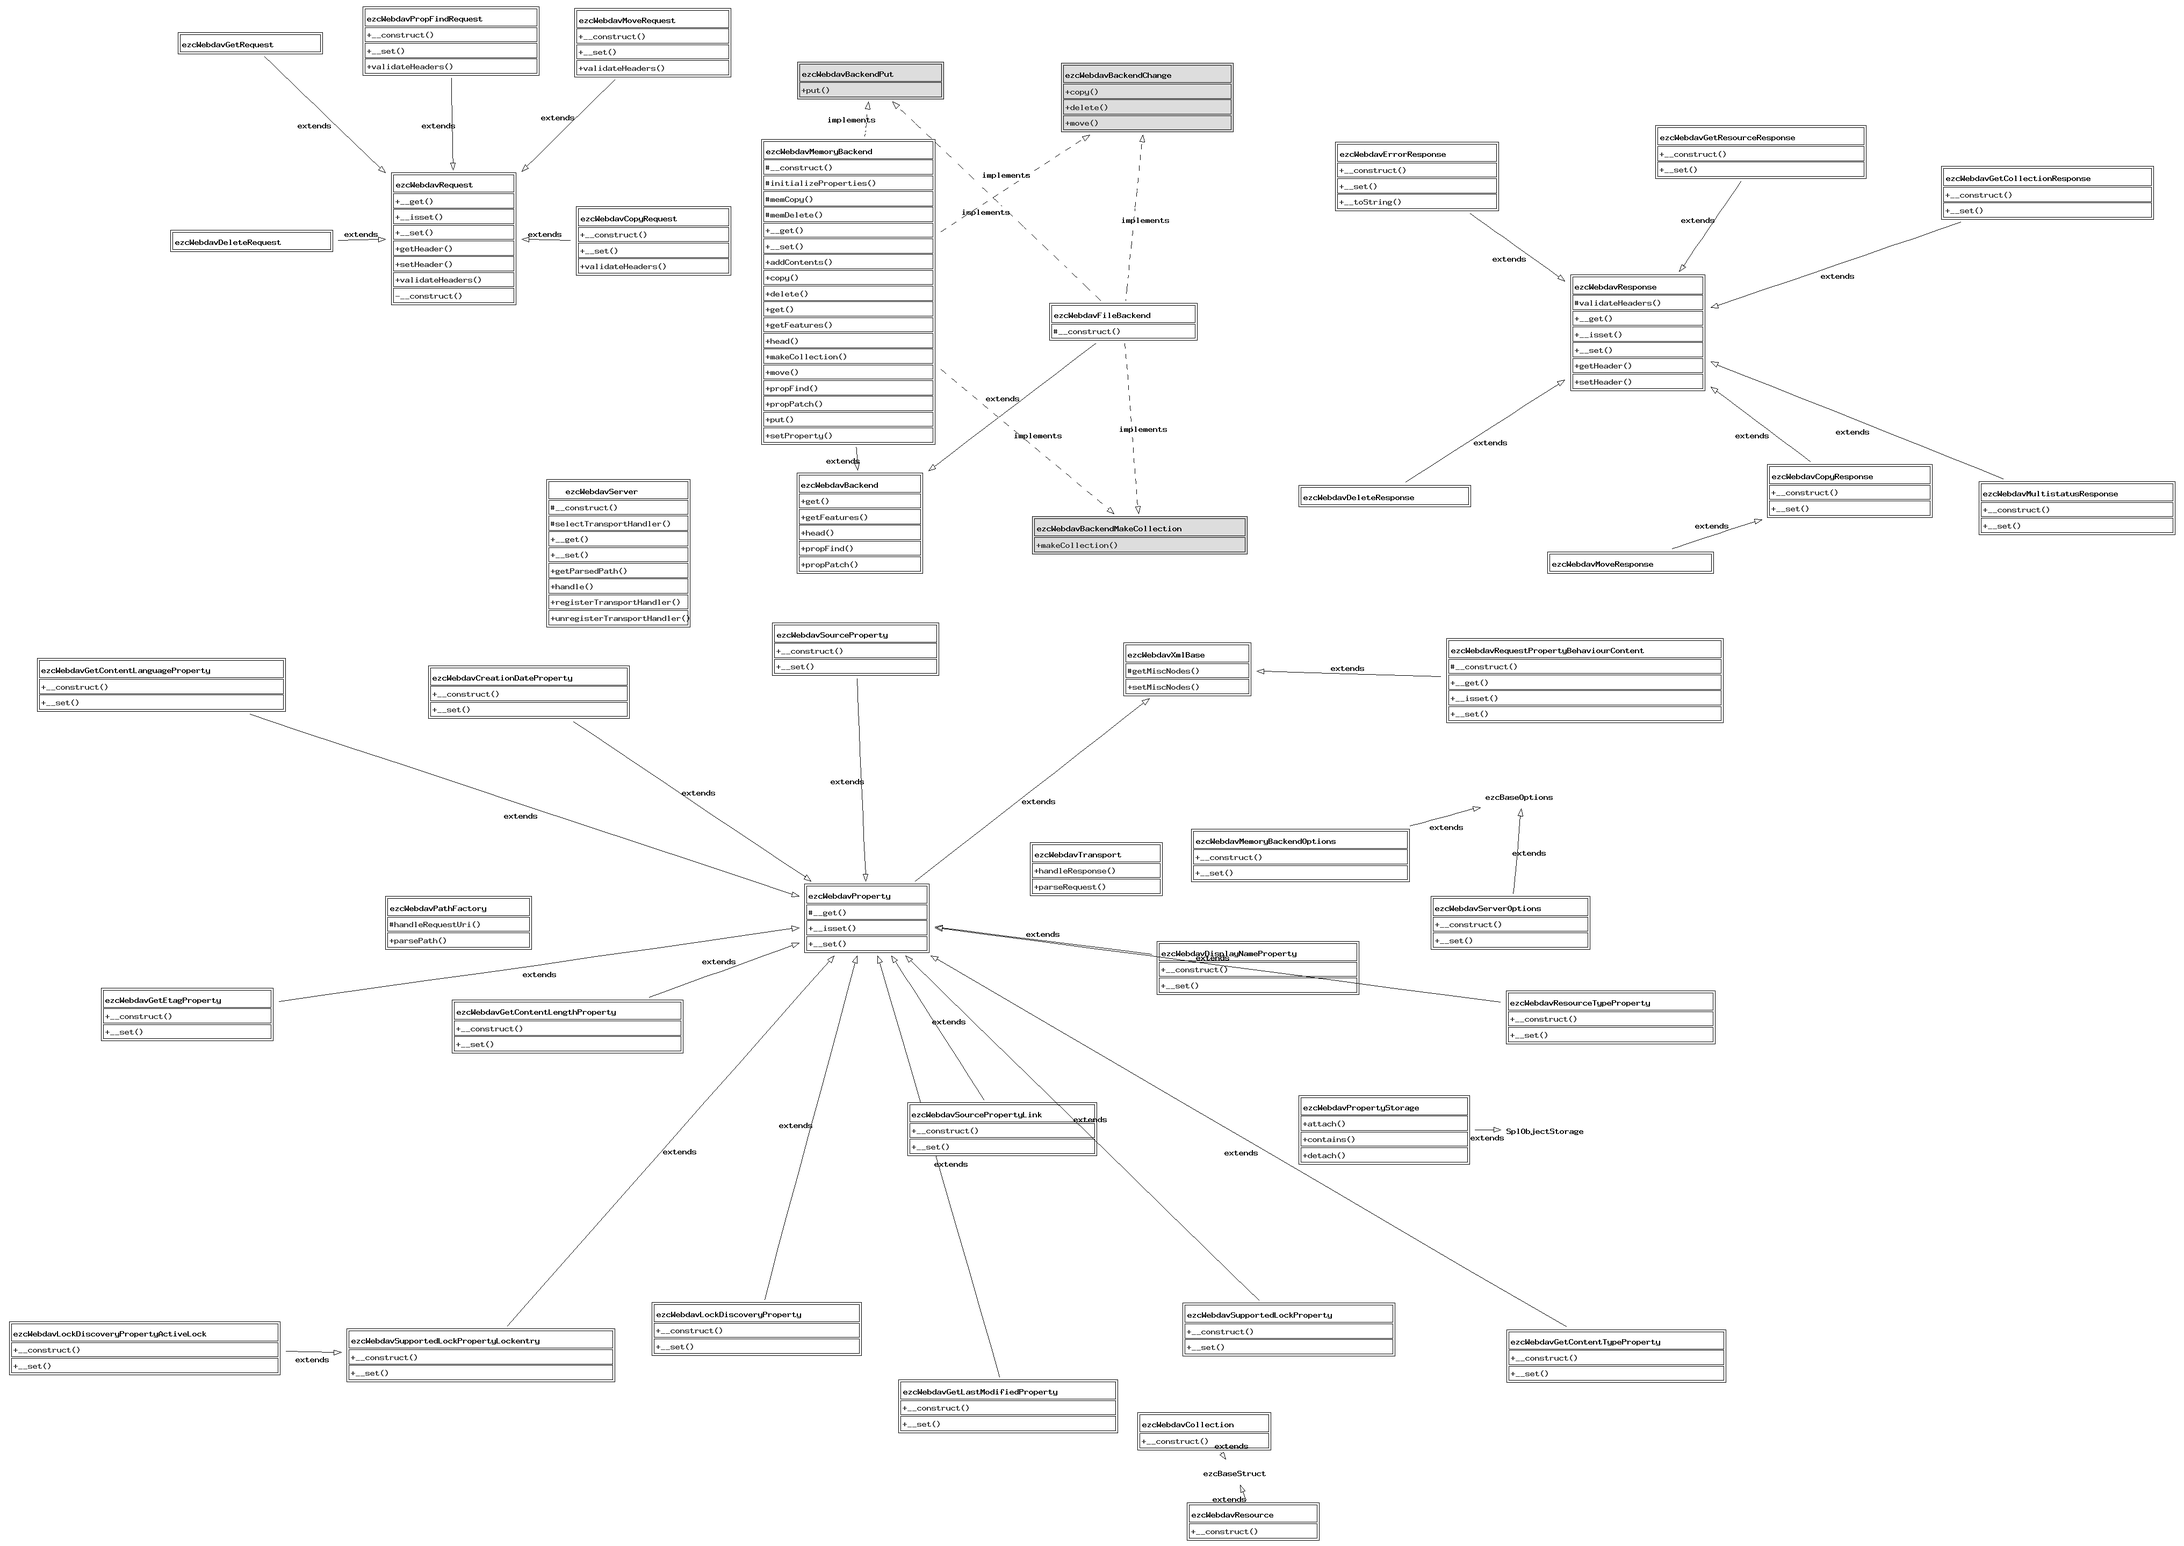
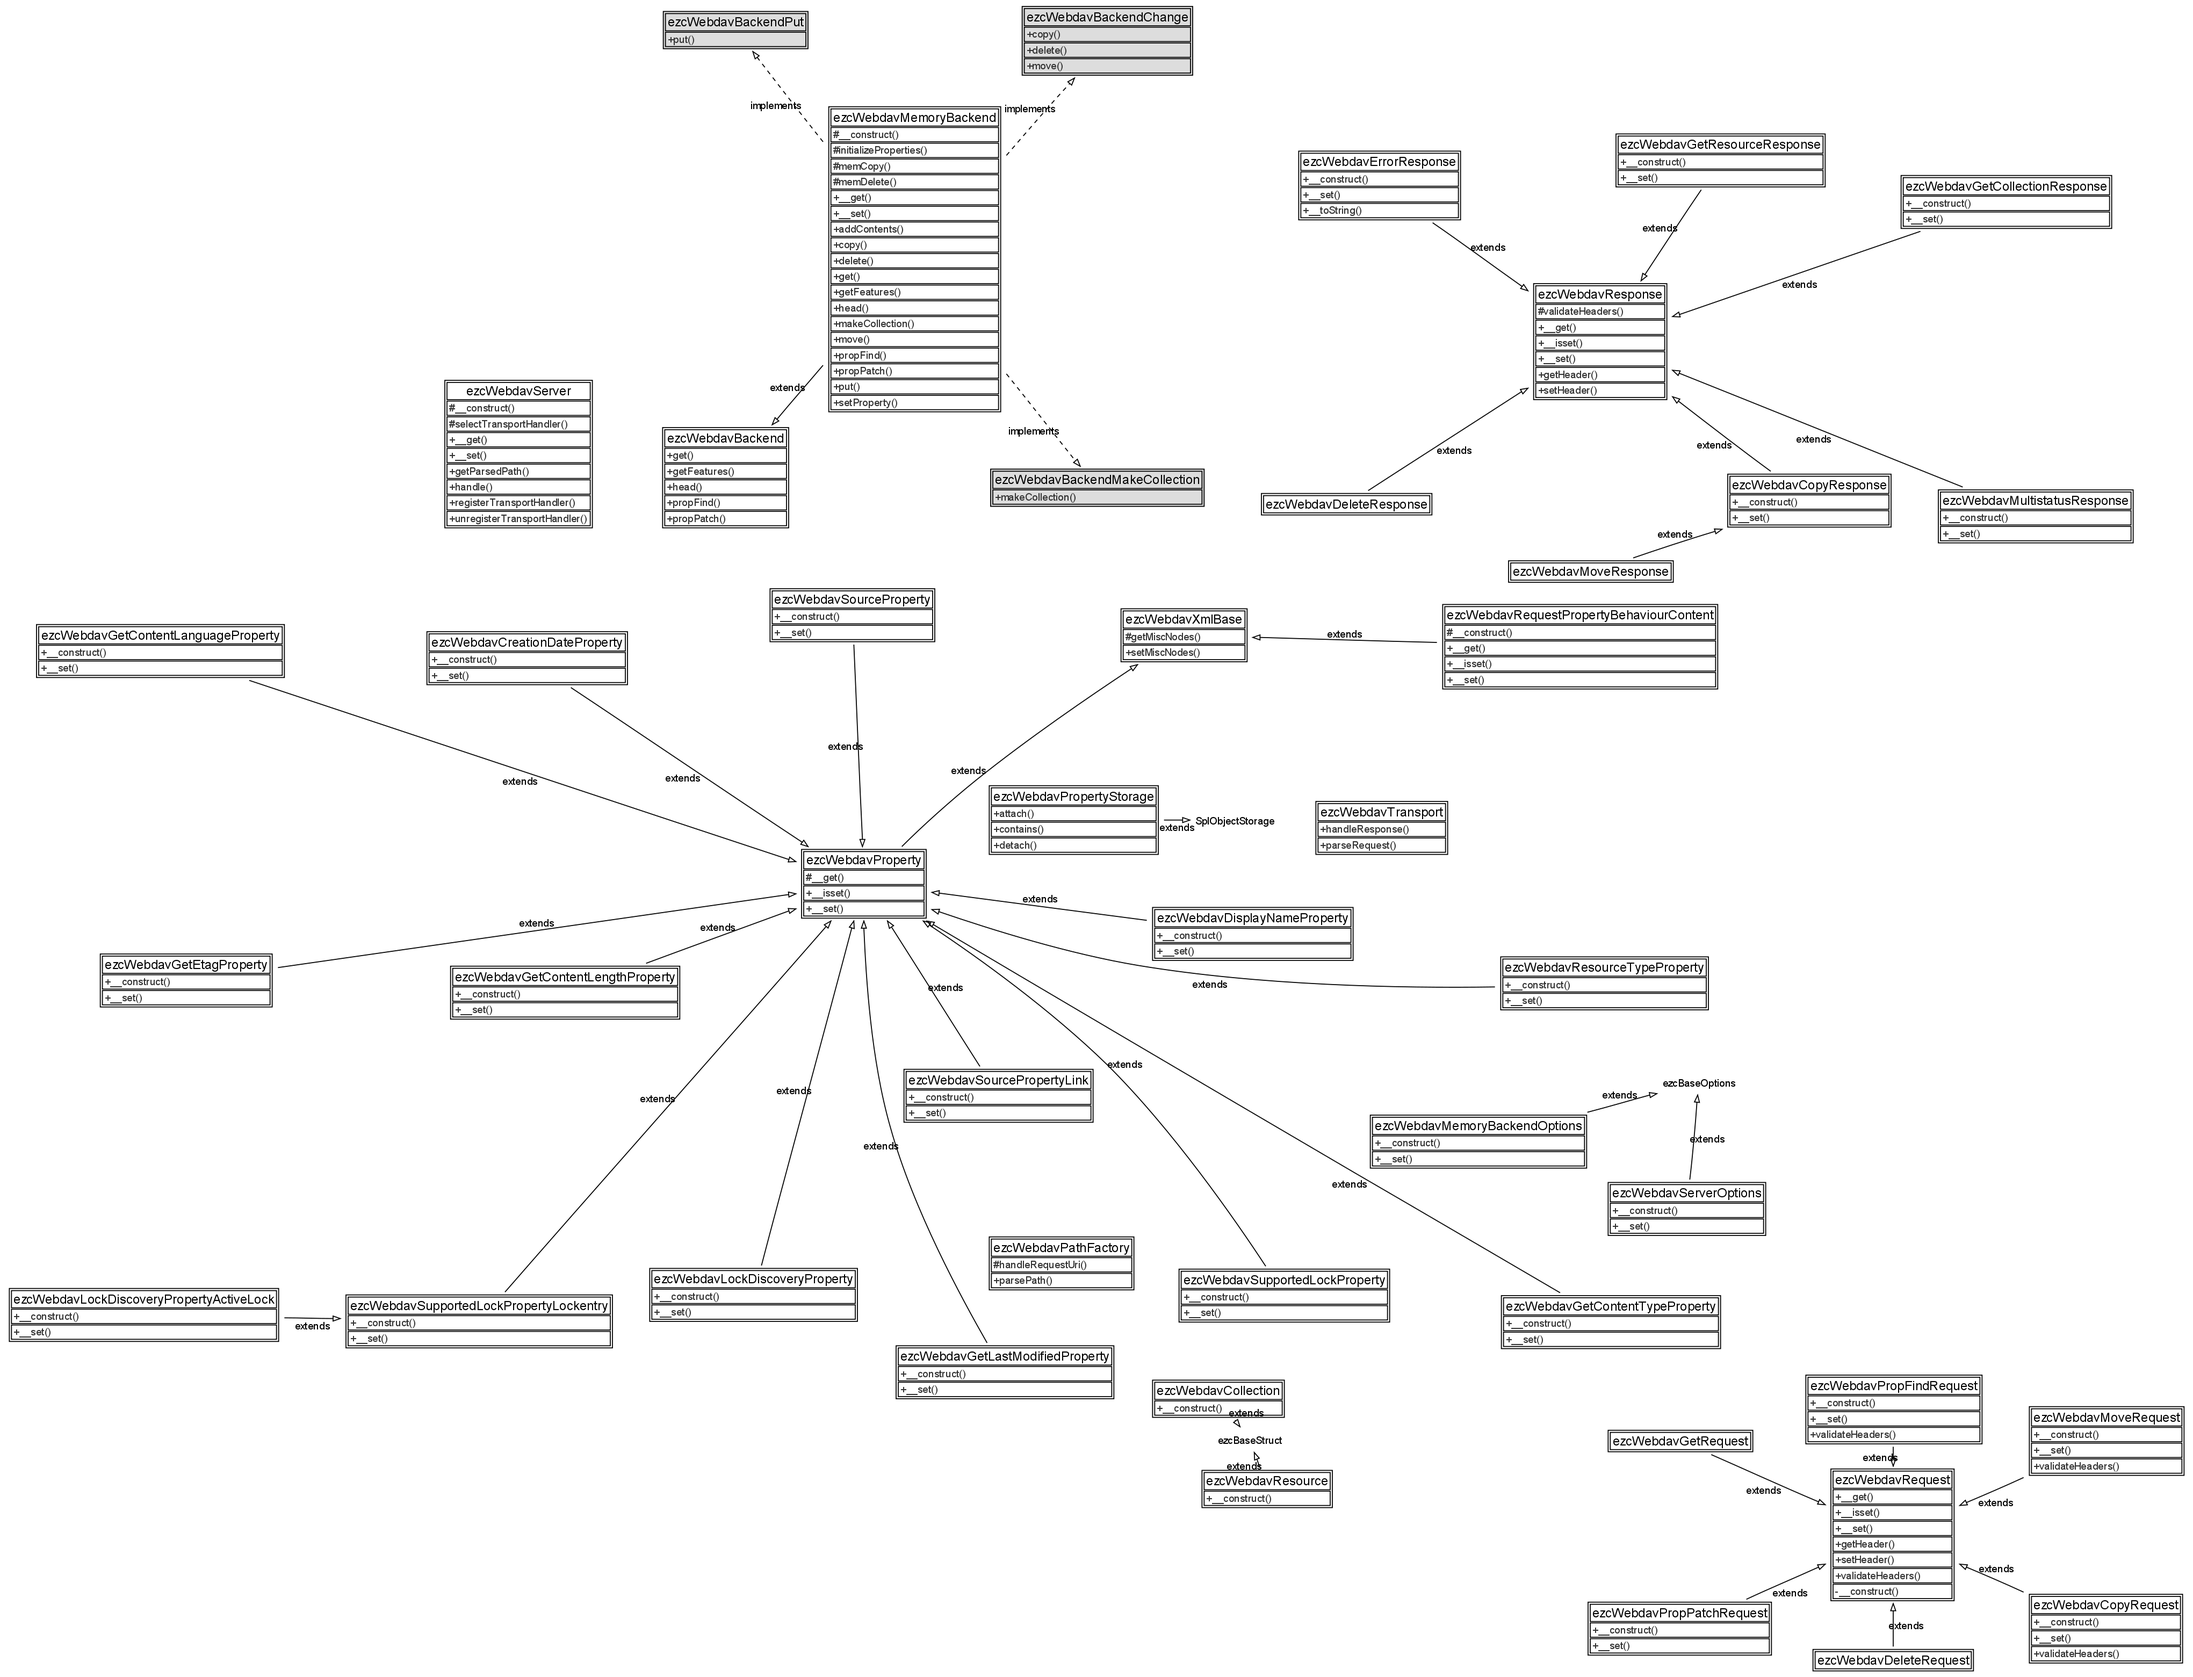
- Added PROPPATCH request. - Migrated PROPFIND request to make use of ezcWebdavPropertyStorage.
git-svn-id: https://svn.apache.org/repos/asf/incubator/zetacomponents/trunk@973424 13f79535-47bb-0310-9956-ffa450edef68

diff --git a/Webdav/src/request/proppatch.php b/Webdav/src/request/proppatch.php
@@ -1,0 +1,83 @@
+<?php
+/**
+ * File containing the ezcWebdavPropPatchRequest class.
+ *
+ * @package Webdav
+ * @version //autogentag//
+ * @copyright PropPatchright (C) 2005-2007 eZ systems as. All rights reserved.
+ * @license http://ez.no/licenses/new_bsd New BSD License
+ */
+/**
+ * Request class generated by a PROPPATCH request.
+ * This request represents the WebDAV PROPPATCH action.
+ *
+ * An object of this class may contain any number of ezcWebdavProperty objects
+ * in both properties: {@link $set} and {$remove}. Both properties represent
+ * the corresponding XML elements used inside the <propertyupdate /> XML
+ * element of the request body.
+ * 
+ * @package Webdav
+ * @version //autogen//
+ * @copyright PropPatchright (C) 2005-2007 eZ systems as. All rights reserved.
+ * @author  
+ * @license http://ez.no/licenses/new_bsd New BSD License
+ *
+ * @property ezcWebdavPropertyStorage $set
+ *           Represents the properties contained in <set /> XML elements.
+ * @property ezcWebdavPropertyStorage $remove
+ *           Represents the properties contained in <remove /> XML elements.
+ */
+class ezcWebdavPropPatchRequest extends ezcWebdavRequest
+{
+    /**
+     * Creates a new PROPPATCH request object.
+     * Sets the defaults for the optional headers for this request. Expects the
+     * URI of the request to be encapsulated.
+     * 
+     * @param string $requestUri
+     * @return void
+     */
+    public function __construct( $requestUri )
+    {
+        // Set from constructor values
+        parent::__construct( $requestUri );
+
+        // Create properties
+        $this->properties['set']    = new ezcWebdavPropertyStorage();
+        $this->properties['remove'] = new ezcWebdavPropertyStorage();
+    }
+
+    /**
+     * Sets a property.
+     * This method is called when an property is to be set.
+     * 
+     * @param string $propertyName The name of the property to set.
+     * @param mixed $propertyValue The property value.
+     * @ignore
+     *
+     * @throws ezcBasePropertyNotFoundException
+     *         if the given property does not exist.
+     * @throws ezcBaseValueException
+     *         if the value to be assigned to a property is invalid.
+     * @throws ezcBasePropertyPermissionException
+     *         if the property to be set is a read-only property.
+     */
+    public function __set( $propertyName, $propertyValue )
+    {
+        switch ( $propertyName )
+        {
+            case 'set':
+            case 'remove':
+                if ( ( $propertyValue instanceof ezcWebdavPropertyStorage ) === false )
+                {
+                    throw new ezcBaseValueException( $propertyName, $propertyValue, 'ezcWebdavPropertyStorage' );
+                }
+                break;
+            default:
+                parent::__set( $propertyName, $propertyValue );
+        }
+        $this->properties[$propertyName] = $propertyValue;
+    }
+}
+
+?>

diff --git a/Webdav/tests/request_proppatch_test.php b/Webdav/tests/request_proppatch_test.php
@@ -1,0 +1,70 @@
+<?php
+/**
+ * File containing the ezcWebdavPropPatchRequestTest class.
+ *
+ * @package Webdav
+ * @subpackage Tests
+ * @version //autogentag//
+ * @copyright PropPatchright (C) 2005-2007 eZ systems as. All rights reserved.
+ * @license http://ez.no/licenses/new_bsd New BSD License
+ */
+
+/**
+ * Reqiuire base test
+ */
+require_once 'request_test.php';
+
+/**
+ * Test case for the ezcWebdavPropPatchRequest class.
+ * 
+ * @package Webdav
+ * @subpackage Tests
+ * @version //autogentag//
+ * @copyright PropPatchright (C) 2005-2007 eZ systems as. All rights reserved.
+ * @license http://ez.no/licenses/new_bsd New BSD License
+ */
+class ezcWebdavPropPatchRequestTest extends ezcWebdavRequestTestCase
+{
+    public static function suite()
+    {
+		return new PHPUnit_Framework_TestSuite( __CLASS__ );
+    }
+
+    protected function setUp()
+    {
+        $this->className = 'ezcWebdavPropPatchRequest';
+        $this->constructorArguments = array(
+            '/foo', '/bar'
+        );
+        $this->defaultValues = array(
+            'set'    => new ezcWebdavPropertyStorage(),
+            'remove' => new ezcWebdavPropertyStorage(),
+        );
+        $this->workingValues = array(
+            'set' => array(
+                new ezcWebdavPropertyStorage(),
+            ),
+            'remove' => array(
+                new ezcWebdavPropertyStorage(),
+            ),
+        );
+        $this->failingValues = array(
+            'set' => array(
+                23,
+                23.34,
+                'foo bar',
+                array( 23, 42 ),
+                new stdClass(),
+            ),
+            'remove' => array(
+                23,
+                23.34,
+                'foo bar',
+                array( 23, 42 ),
+                new stdClass(),
+            ),
+        );
+    }
+}
+
+?>

diff --git a/Webdav/src/webdav_autoload.php b/Webdav/src/webdav_autoload.php
@@ -34,7 +34,6 @@ return array(
     'ezcWebdavDeleteResponse'                  => 'Webdav/response/delete.php',
     'ezcWebdavDisplayNameProperty'             => 'Webdav/properties/displayname.php',
     'ezcWebdavErrorResponse'                   => 'Webdav/response/error.php',
-    'ezcWebdavFileBackend'                     => 'Webdav/backend/file.php',
     'ezcWebdavGetCollectionResponse'           => 'Webdav/response/get_collection.php',
     'ezcWebdavGetContentLanguageProperty'      => 'Webdav/properties/getcontentlanguage.php',
     'ezcWebdavGetContentLengthProperty'        => 'Webdav/properties/getcontentlength.php',
@@ -52,6 +51,7 @@ return array(
     'ezcWebdavMultistatusResponse'             => 'Webdav/response/multistatus.php',
     'ezcWebdavPathFactory'                     => 'Webdav/path_factory.php',
     'ezcWebdavPropFindRequest'                 => 'Webdav/request/propfind.php',
+    'ezcWebdavPropPatchRequest'                => 'Webdav/request/proppatch.php',
     'ezcWebdavPropertyStorage'                 => 'Webdav/property_storage.php',
     'ezcWebdavRequestPropertyBehaviourContent' => 'Webdav/request/content/property_behaviour.php',
     'ezcWebdavResource'                        => 'Webdav/structs/resource.php',

diff --git a/Webdav/src/request/propfind.php b/Webdav/src/request/propfind.php
@@ -58,7 +58,7 @@ class ezcWebdavPropFindRequest extends ezcWebdavRequest
 
         // Create properties
         $this->properties['allProp']  = false;
-        $this->properties['propName'] = null;
+        $this->properties['propName'] = false;
         $this->properties['prop']     = null;
     }
 
@@ -102,7 +102,7 @@ class ezcWebdavPropFindRequest extends ezcWebdavRequest
                 }
                 break;
             case 'prop':
-                if ( is_array( $propertyValue ) === false && $propertyValue !== null )
+                if ( ( $propertyValue instanceof ezcWebdavPropertyStorage ) === false && $propertyValue !== null )
                 {
                     throw new ezcBaseValueException( $propertyName, $propertyValue, 'array(string) or null' );
                 }

diff --git a/Webdav/tests/suite.php b/Webdav/tests/suite.php
@@ -40,6 +40,7 @@ require_once 'property_supportedlock_test.php';
 require_once 'request_copy_test.php';
 require_once 'request_move_test.php';
 require_once 'request_propfind_test.php';
+require_once 'request_proppatch_test.php';
 
 require_once 'request_content_property_behaviour_test.php';
 
@@ -91,6 +92,7 @@ class ezcWebdavSuite extends PHPUnit_Framework_TestSuite
         $this->addTest( ezcWebdavResponseTest::suite() );
         $this->addTest( ezcWebdavMoveRequestTest::suite() );
         $this->addTest( ezcWebdavPropFindRequestTest::suite() );
+        $this->addTest( ezcWebdavPropPatchRequestTest::suite() );
         $this->addTest( ezcWebdavRequestPropertyBehaviourContentTest::suite() );
     }
 

diff --git a/Webdav/tests/request_propfind_test.php b/Webdav/tests/request_propfind_test.php
@@ -51,8 +51,7 @@ class ezcWebdavPropFindRequestTest extends ezcWebdavRequestTestCase
                 false,
             ),
             'prop' => array(
-                array(),
-                array( 'foo', 'bar' ),
+                new ezcWebdavPropertyStorage(),
                 null
             ),
         );
@@ -78,6 +77,7 @@ class ezcWebdavPropFindRequestTest extends ezcWebdavRequestTestCase
                 true,
                 false,
                 new stdClass(),
+                array( 23, 42),
             ),
         );
     }
